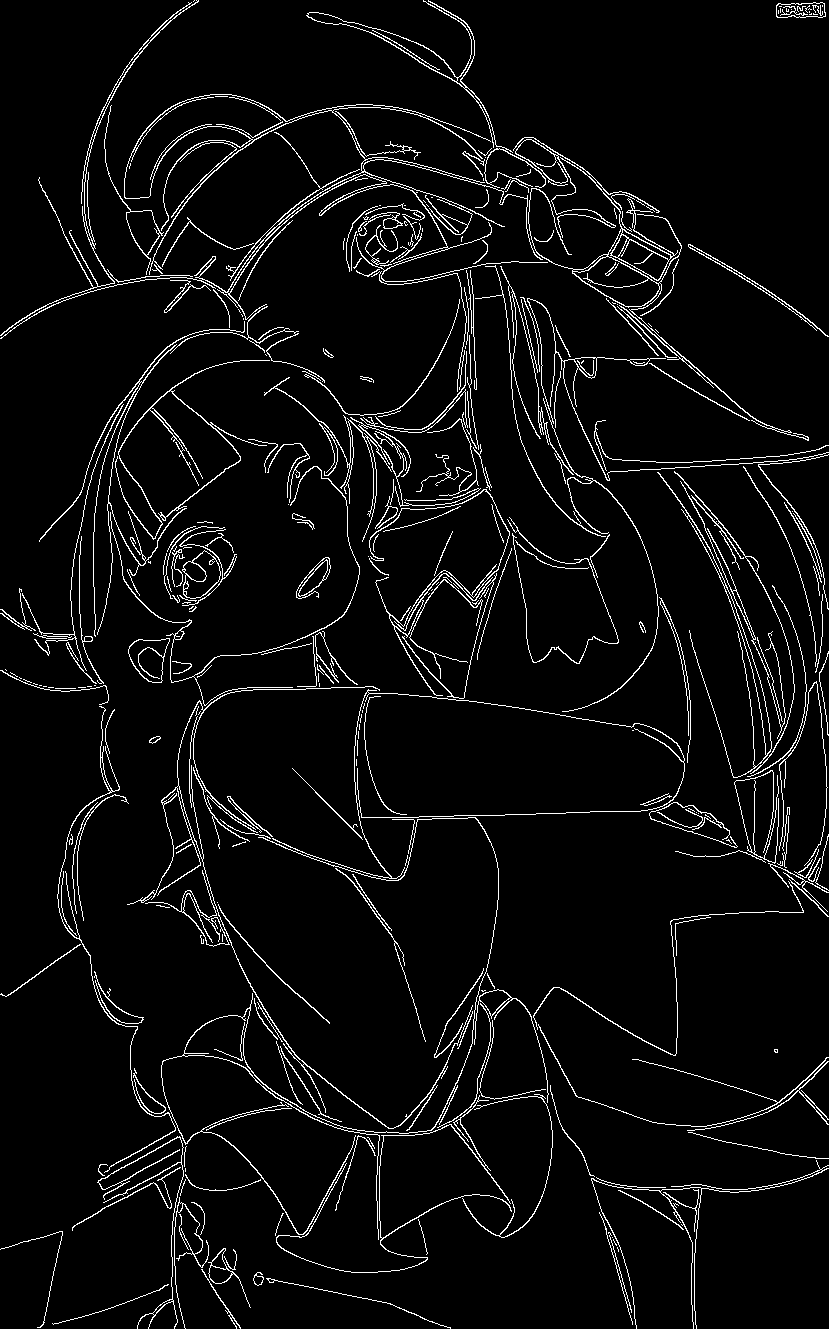
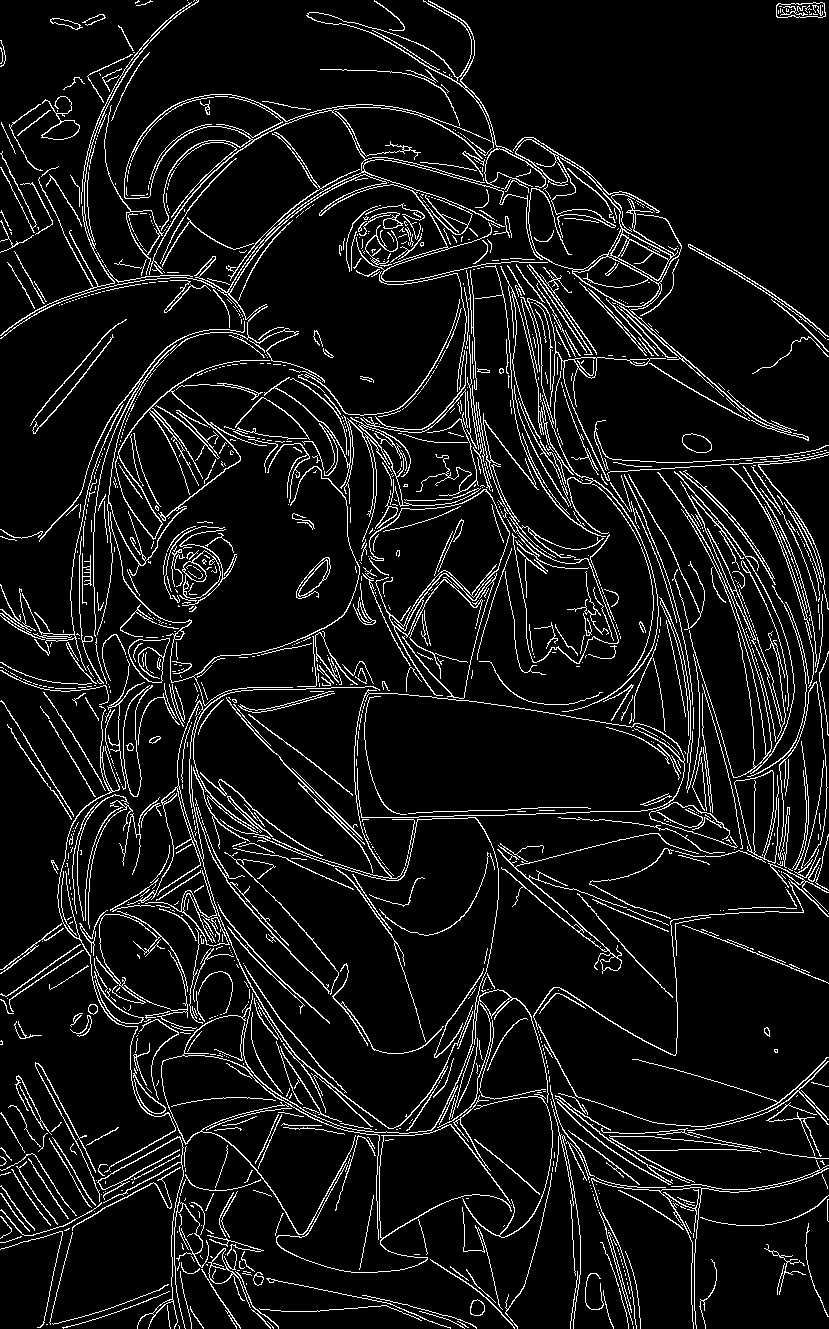
Fin

diff --git a/main.py b/main.py
@@ -1,6 +1,5 @@
 import numpy as np
 import cv2 
-from matplotlib import pyplot as plt
 
 # Sobel write
 def sobel(gray):
@@ -11,15 +10,15 @@ def sobel(gray):
 # Canny write
 def canny(gray):
     blur = cv2.GaussianBlur(gray,(3,3),0)
-    canny = cv2.Canny(blur,0,200)
+    canny = cv2.Canny(blur,0,50)
 
     cv2.imwrite('canny/image'+str(num)+".png", canny) 
 
 #Main loop
-for num in range(0,4):
+for num in range(0,100):
     
     # Universal variables
-    image = cv2.imread('dataset/image'+str(num)+'.png')
+    image = cv2.imread('dataset/image'+str(num)+'.pngt')
     gray = cv2.cvtColor(image, cv2.COLOR_BGR2GRAY)
     
     #Calling canny and sobel for the entire dataset
